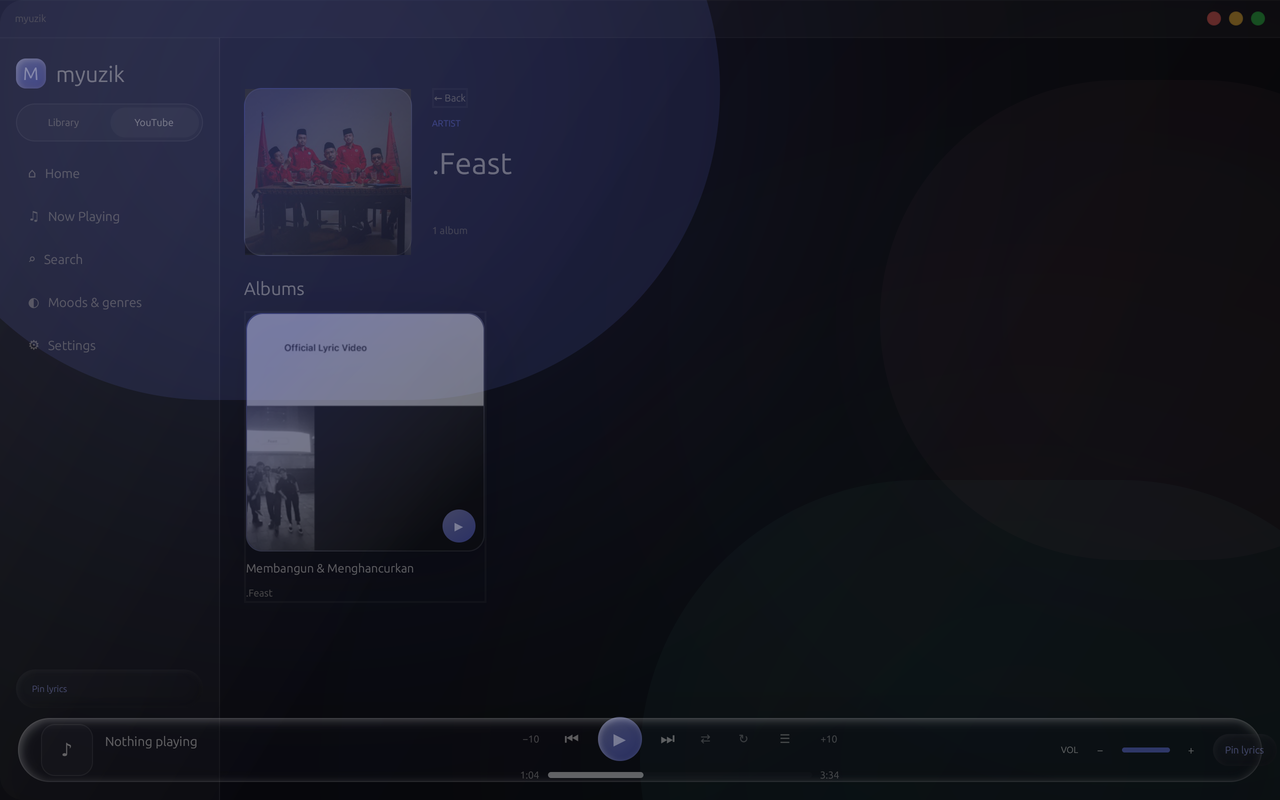
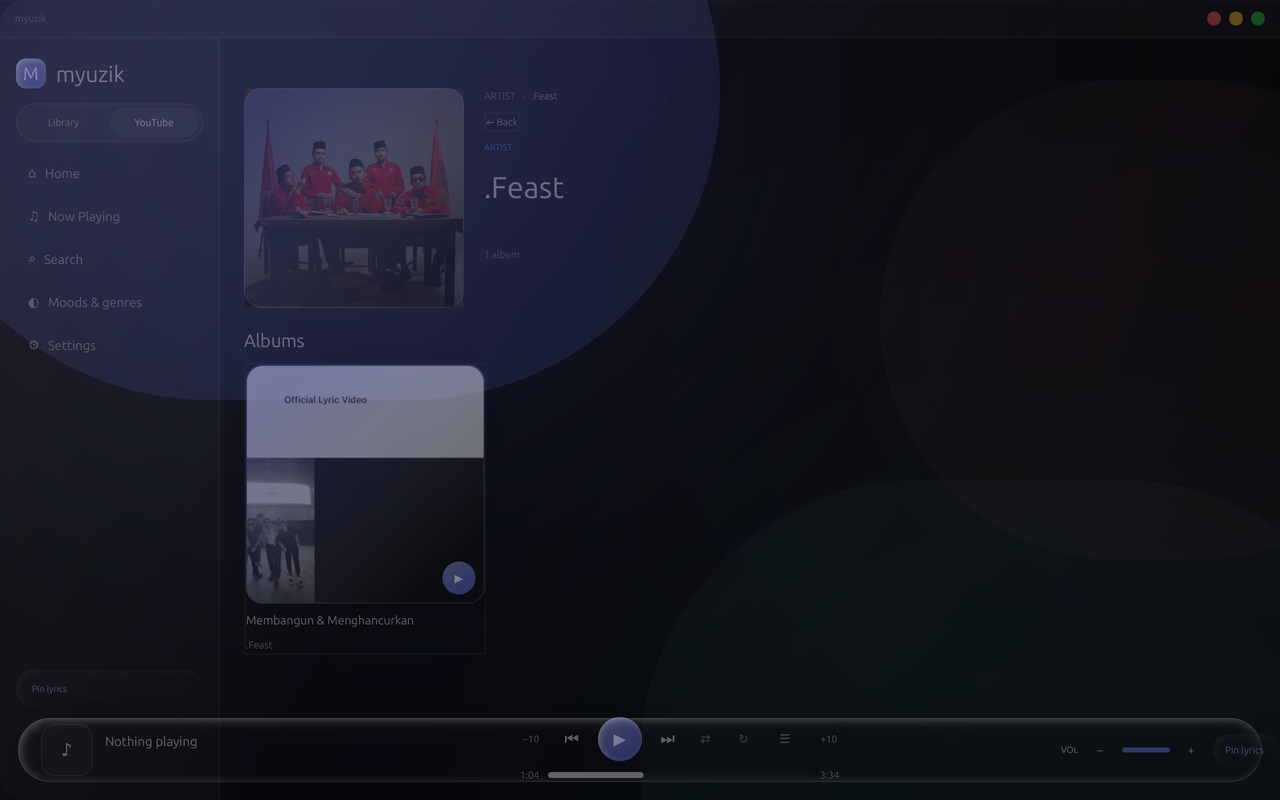
Phase 3: Liquid Glass shelves, detail headers, search empty state

diff --git a/src/ui/shell/browse.rs b/src/ui/shell/browse.rs
@@ -194,7 +194,7 @@ impl Shell {
             .next()
             .map(|c| c.to_uppercase().to_string())
             .unwrap_or_else(|| "?".to_string());
-        let cover = self.cover_element(url, cover_id, &initial, 168.0, t, cx);
+        let cover = self.cover_element(url, cover_id, &initial, 220.0, t, cx);
         let artist = match artist_id {
             Some(id) => div()
                 .id("detail-artist")
@@ -224,6 +224,17 @@ impl Shell {
                     .flex_col()
                     .items_start()
                     .gap(gpui::px(8.0))
+                    .child(
+                        div()
+                            .flex()
+                            .items_center()
+                            .gap(gpui::px(6.0))
+                            .text_size(gpui::px(10.0))
+                            .text_color(t.text_tertiary)
+                            .child(kind.to_uppercase())
+                            .child(div().text_color(t.text_tertiary).child("›"))
+                            .child(div().text_color(t.text_secondary).child(title.to_string())),
+                    )
                     .child(
                         div()
                             .id("detail-back")
@@ -1102,17 +1113,44 @@ impl Shell {
                     .gap(gpui::px(9.0))
                     .child(
                         div()
-                            .font_family(theme.display_font)
-                            .text_size(gpui::px(18.0))
-                            .font_weight(gpui::FontWeight::SEMIBOLD)
-                            .text_color(t.text_primary)
-                            .child(if section.title.is_empty() {
-                                "For you".to_string()
-                            } else {
-                                section.title.clone()
-                            }),
+                            .flex()
+                            .items_center()
+                            .justify_between()
+                            .child(
+                                div()
+                                    .font_family(theme.display_font)
+                                    .text_size(gpui::px(18.0))
+                                    .font_weight(gpui::FontWeight::SEMIBOLD)
+                                    .text_color(t.text_primary)
+                                    .child(if section.title.is_empty() {
+                                        "For you".to_string()
+                                    } else {
+                                        section.title.clone()
+                                    }),
+                            )
+                            .child(
+                                div()
+                                    .text_size(gpui::px(10.0))
+                                    .font_weight(gpui::FontWeight::BOLD)
+                                    .text_color(t.text_tertiary)
+                                    .child("See all ›"),
+                            ),
                     )
-                    .child(row),
+                    .child(
+                        div().relative().child(row).child(
+                            div()
+                                .absolute()
+                                .right(gpui::px(0.0))
+                                .top(gpui::px(0.0))
+                                .bottom(gpui::px(0.0))
+                                .w(gpui::px(40.0))
+                                .bg(gpui::linear_gradient(
+                                    90.0,
+                                    gpui::linear_color_stop(gpui::rgba(0x0A0B1000), 0.0),
+                                    gpui::linear_color_stop(gpui::rgba(0x0A0B10CC), 1.0),
+                                )),
+                        ),
+                    ),
             );
         }
         div()

diff --git a/src/ui/shell.rs b/src/ui/shell.rs
@@ -5757,7 +5757,35 @@ impl Render for Shell {
                                         && self.youtube_error.is_none()
                                     {
                                         col = col.child(
-                                            div().text_size(gpui::px(11.0)).text_color(t.text_secondary).child("No results"),
+                                            div()
+                                                .flex()
+                                                .flex_col()
+                                                .items_center()
+                                                .gap(gpui::px(8.0))
+                                                .py(gpui::px(40.0))
+                                                .child(
+                                                    div()
+                                                        .text_size(gpui::px(32.0))
+                                                        .text_color(t.text_tertiary)
+                                                        .child("⌕"),
+                                                )
+                                                .child(
+                                                    div()
+                                                        .text_size(gpui::px(13.0))
+                                                        .font_weight(gpui::FontWeight::SEMIBOLD)
+                                                        .text_color(t.text_secondary)
+                                                        .child("No results"),
+                                                )
+                                                .child(
+                                                    div()
+                                                        .text_size(gpui::px(11.0))
+                                                        .text_color(t.text_tertiary)
+                                                        .child(if self.active_source == TrackSource::YouTube {
+                                                            "Try a different query or browse Moods & genres."
+                                                        } else {
+                                                            "Try a different query or sync your library."
+                                                        }),
+                                                ),
                                         );
                                     }
                                 }

diff --git a/docs/progress.md b/docs/progress.md
@@ -86,7 +86,9 @@ Last updated: 2026-11-10
   cool indigo accent, Inter typography, rounded-20 radii, dynamic accent from cover art.
 - [x] Phase 2 — Liquid Glass layout: glass player bar (64 px capsule), glass sidebar
   (220 px), icon+text nav, dynamic accent from cover art, glass surfaces.
-- [ ] Next: Phase 3 — cards/shelves with fade/arrow, detail header breadcrumb.
+- [x] Phase 3 — Liquid Glass polish: shelf fade edge + "See all", detail header
+  breadcrumb + 220 px cover, search empty state, tighter track-row styling.
+- [ ] Next: Phase 4 — motion, skeletons, contrast pass, final screenshot refresh.
 
 ## Post-0.1.0 — YouTube Music (optional)
 - [x] M1: optional YouTube Music search and playback behind `youtube_enabled` (off by default).

diff --git a/docs/design-overhaul.md b/docs/design-overhaul.md
@@ -18,6 +18,12 @@ Glass surfaces are applied to the player bar (64 px capsule) and sidebar (220 px
 Nav items now have icon+text. The accent is dynamic from cover art. Layout
 numbers updated: sidebar 220, player bar 64, cover 48, bottom padding 86/92.
 
+## Phase 3 — Done
+
+Shelves now have a "See all" link and a right-edge fade. Detail headers have a
+breadcrumb (type › title) and a 220 px cover. Search has an empty state with icon
+and hint. Track rows keep their play-next / add-to-queue hover actions.
+
 ## What is solid now
 
 - One playback engine and queue for both sources; queue edits stay in sync with
